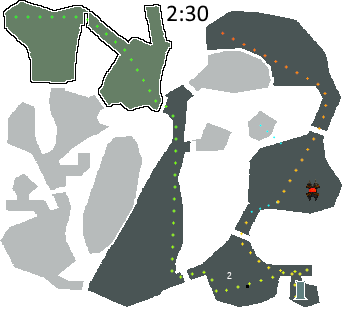
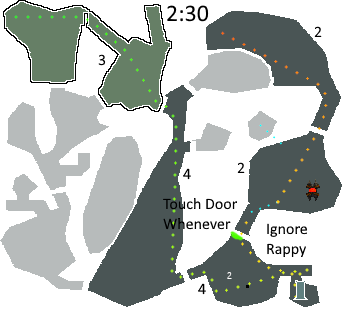
Added wave counts to forest

diff --git a/Phantasy-Star-Online/AKD_MoreDetails/AKD.html b/Phantasy-Star-Online/AKD_MoreDetails/AKD.html
@@ -126,8 +126,12 @@
                     <dd>Wave Lines<span class="detail">Crossing spawns a wave</span></dd>
                 </div>
                 <div>
+                    <dt><img src="legend/important.png" alt="Important"></dt>
+                    <dd>Important</dd>
+                </div>
+                <div>
                     <dt><img src="legend/confusiontrap.png" alt="Confusion Trap"></dt>
-                    <dd>Confusion Trap<span class="detail">Confusion Trap</span></dd>
+                    <dd>Confusion Trap</dd>
                 </div>
                 <div>
                     <dt><img src="legend/dubchicbrain.png" alt="Dubchic Brain"></dt>
@@ -161,6 +165,7 @@
     <footer>Copyright (C) 2023 Justin Schwartz.
         Licensed under a <a href="https://creativecommons.org/licenses/by-sa/4.0/" rel="nofollow">Creative Commons Attribution-ShareAlike 4.0 International License</a>.
         Special thanks to <a href="https://johndellarosa.github.io">John Della Rosa</a> for help with JavaScript/CSS.
+        Original maps from AKD <a href="https://akdb.github.io/phantasy-star-online/maps/episode-1/">github</a>
     </footer>
 
 
